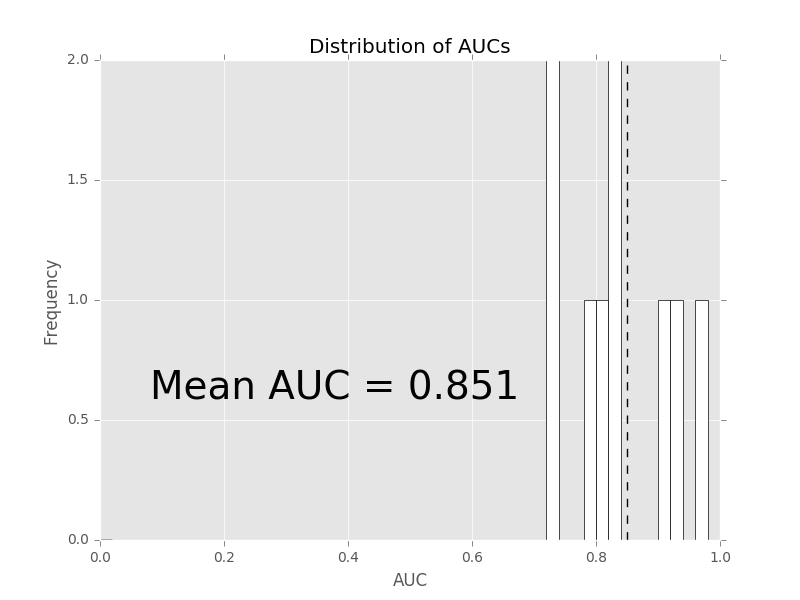
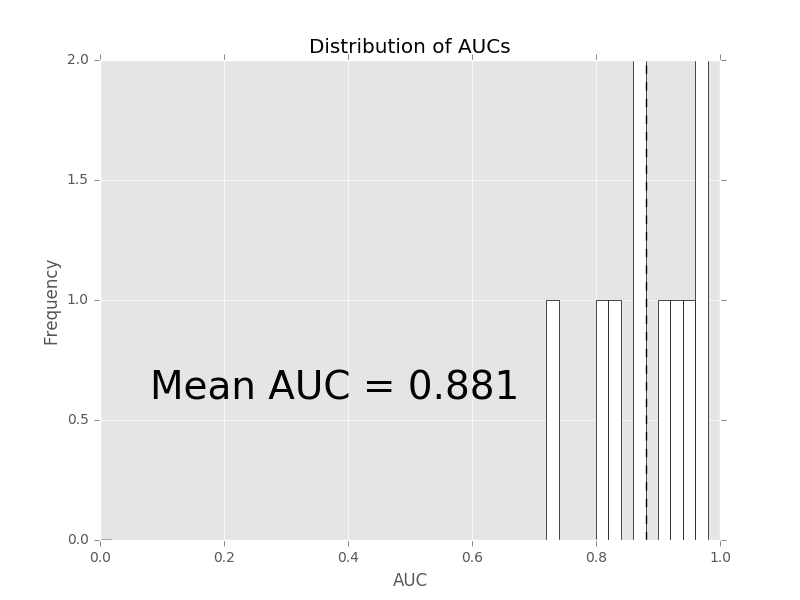
example runs under easy_glmnet

Changed region(s): [[0.6562, 0.09, 0.8125, 0.9], [0.8438, 0.09, 0.9062, 0.9], [0.5938, 0.6, 0.625, 0.66]]

diff --git a/Python/examples/cocaine/analysis.py b/Python/examples/cocaine/analysis.py
@@ -12,8 +12,9 @@ from easyml.factory import easy_glmnet
 
 if __name__ == "__main__":
     # Load data
-    data = pd.read_table('./cocaine.txt')
+    cocaine = pd.read_table('./cocaine.txt')
 
     # Analyze data
-    easy_glmnet(data, dependent_variable='DIAGNOSIS',
-                family='binomial', exclude_variables=['subject', 'AGE'])
+    easy_glmnet(cocaine, 'DIAGNOSIS',
+                family='binomial', exclude_variables=['subject'], categorical_variables=['Male'],
+                alpha=1, n_lambda=200, standardize=False, cut_point=0, max_iter=1e6)

diff --git a/Python/examples/prostate/analysis.py b/Python/examples/prostate/analysis.py
@@ -11,8 +11,14 @@ from easyml.factory import easy_glmnet
 
 
 if __name__ == "__main__":
+    # Set directory
+    import os
+    os.chdir('./Python/examples/prostate')
+
     # Load data
-    data = pd.read_table('./prostate.txt')
+    prostate = pd.read_table('./prostate.txt')
 
     # Analyze data
-    easy_glmnet(data, dependent_variable='lpsa')
+    easy_glmnet(prostate, 'lpsa',
+                n_samples=10, n_divisions=10, n_iterations=2,
+                alpha=1, n_lambda=200, standardize=False, cut_point=0, max_iter=1e6)
